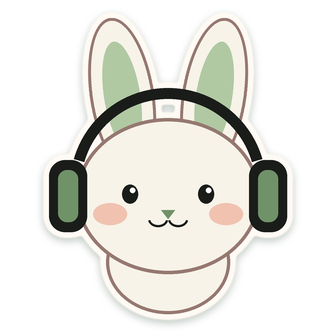
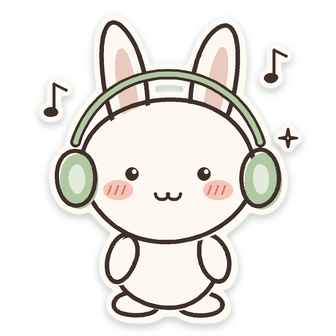
Right panel fits exactly one screen; redraw bear and bunny as hand-drawn doodles
Panel: the right context panel is now h-dvh + sticky and lays itself out
to fit — the Spotify art flexes into the leftover height (size container +
min(cqw,cqh) keeps it square), the optional About-the-artist copy drops out
below 940px tall, and a no-scrollbar overflow fallback only matters under
~520px. Measured with zero overflow at 1920x1080 down to 1280x560, panel
open or collapsed.

Stickers: bear and bunny redrawn in a Pinterest/Xiaohongshu doodle style —
wobbly dark-brown marker outlines, flat pastel fills offset like a
misprint, dot eyes, blush cheeks with hatch marks, tiny sparkle/heart/note
doodles — still in the site's sage/cream palette.

Changed region(s): [[0.119, 0.0298, 0.8929, 0.9821], [0.119, 0.2381, 0.2083, 0.3869], [0.7738, 0.1488, 0.8631, 0.2976]]

diff --git a/src/components/layout/RightNowPlayingPanel.tsx b/src/components/layout/RightNowPlayingPanel.tsx
@@ -23,15 +23,20 @@ type Props = {
 
 export function RightNowPlayingPanel({ song }: Props) {
   return (
-    <aside aria-label="Now playing context" className="flex flex-col h-full">
-      {/* Sticky header — stays put while panel body scrolls */}
-      <div className="sticky top-0 z-10 bg-card/95 backdrop-blur-sm flex items-center justify-between px-4 pt-4 pb-3 border-b border-border/40 shrink-0">
+    <aside aria-label="Now playing context" className="flex h-full min-h-0 flex-col">
+      {/* Header */}
+      <div className="z-10 bg-card/95 backdrop-blur-sm flex items-center justify-between px-4 pt-4 pb-3 border-b border-border/40 shrink-0">
         <p className="text-xs font-semibold uppercase tracking-wider text-muted-foreground">Now Playing — Spotify</p>
         <ThemeToggle />
       </div>
 
-      {/* Scrollable body */}
-      <div className="p-4 space-y-6">
+      {/* The panel is exactly one screen tall (SpotifyShell: h-dvh), so the
+          body is a flex column that fits it: the Spotify art flexes to fill
+          what's left, and the optional About-the-artist copy drops out on
+          short screens (max-height query below). overflow-y-auto +
+          scrollbar-hide is only a safety net for extremely short windows —
+          no visible scrollbar, but nothing becomes unreachable. */}
+      <div className="flex min-h-0 flex-1 flex-col gap-4 overflow-y-auto overflow-x-hidden p-4 scrollbar-hide">
         {/* Section-context companion — isolated so a bug here can never
             take down the real Spotify widget below it. */}
         <ErrorBoundary>
@@ -40,19 +45,21 @@ export function RightNowPlayingPanel({ song }: Props) {
 
         <Separator />
 
-        {/* Expanded Now Playing widget */}
-        <NowPlaying song={song} variant="expanded" />
+        {/* Expanded Now Playing widget — flexes to fill the leftover height */}
+        <div className="flex min-h-0 flex-1 flex-col">
+          <NowPlaying song={song} variant="expanded" />
+        </div>
 
         <Separator />
 
         {/* About the Artist */}
-        <div className="space-y-4">
+        <div className="flex shrink-0 flex-col gap-3">
           <p className="text-xs font-semibold uppercase tracking-wider text-muted-foreground">About the artist</p>
 
           <div className="relative">
           <Tape variant="beige" width={84} rotate={5} className="-top-3 right-8" />
           <Sticker name="sparkle" size={22} className="-left-2 -top-3" float />
-          <div className="relative w-full aspect-video rounded-3xl overflow-hidden border-2 border-primary/30 shadow-md">
+          <div className="relative aspect-[16/8] w-full rounded-3xl overflow-hidden border-2 border-primary/30 shadow-md">
             <Image
               src={site.avatar.src}
               alt={site.avatar.alt}
@@ -71,6 +78,9 @@ export function RightNowPlayingPanel({ song }: Props) {
           </div>
           </div>
 
+          {/* Secondary copy: hidden on screens shorter than 940px so the panel
+              always fits without scrolling. The name, photo, and links stay. */}
+          <div className="flex flex-col gap-3 [@media(max-height:940px)]:hidden">
           <p className="text-sm text-muted-foreground leading-relaxed">
             {site.bioShort}
           </p>
@@ -85,12 +95,13 @@ export function RightNowPlayingPanel({ song }: Props) {
           <div className="flex flex-wrap gap-1.5">
             <span className="text-xs text-muted-foreground">{education.affiliations.map((a) => a.split(' — ')[0]).join(' · ')}</span>
           </div>
+          </div>
         </div>
 
         <Separator />
 
         {/* Social links */}
-        <div className="flex gap-2 pb-4">
+        <div className="flex shrink-0 gap-2">
           <Button asChild variant="outline" size="sm" className="flex-1 rounded-full hover:border-primary hover:text-primary transition-colors">
             <a href={githubHref} target="_blank" rel="noopener noreferrer" aria-label="GitHub">
               <Github className="h-4 w-4" />

diff --git a/src/components/layout/SpotifyShell.tsx b/src/components/layout/SpotifyShell.tsx
@@ -60,7 +60,7 @@ export function SpotifyShell({ leftPanel, rightPanel, children }: Props) {
           // deliberately positioned outside this box on the left; clipping
           // this element would cut the button off. The content div further
           // down carries its own overflow-hidden instead.)
-          'hidden xl:flex min-w-0 shrink-0 self-start sticky top-0 paper-texture bg-card/80 backdrop-blur-xl transition-all duration-300 ease-in-out',
+          'hidden xl:flex h-dvh min-w-0 shrink-0 self-start sticky top-0 paper-texture bg-card/80 backdrop-blur-xl transition-all duration-300 ease-in-out',
           rightOpen ? 'w-panel border-l-2 border-dashed border-primary/25' : 'w-0'
         )}
       >
@@ -89,21 +89,17 @@ export function SpotifyShell({ leftPanel, rightPanel, children }: Props) {
           </button>
         </MagneticWrap>
 
-        {/* Panel content — no independent scroll zone anymore. It used to
-            be clipped to h-dvh with its own overflow-y-auto, which read
-            as an awkward second scrollbar nested inside the page's main
-            scroll. Now the panel is unconstrained (self-start so it
-            doesn't stretch to match <main>'s height) and just sticky —
-            its top stays pinned to the viewport for as long as there's
-            page left to scroll, and only in the last stretch of the
-            page does it un-stick and scroll normally to reveal whatever
-            didn't fit above the fold. One scroll gesture, not two. */}
+        {/* Panel content — exactly one screen tall (the wrapper above is
+            h-dvh + sticky), and the panel's own layout fits that height by
+            flexing the Spotify art and dropping secondary copy on short
+            screens (see RightNowPlayingPanel). So there is no scroll zone to
+            speak of — the whole panel just stays put while the page scrolls. */}
         {/* overflow-hidden here (not on the outer wrapper) is what actually
             stops the collapsed-but-still-`invisible` content from bleeding
             past the parent's zero width — its buttons/badges don't shrink
             on their own and would otherwise widen the document and leave a
             dead scrollable strip where the panel should have disappeared. */}
-        <div className={cn('flex flex-col w-full overflow-hidden', !rightOpen && 'invisible pointer-events-none')}>
+        <div className={cn('flex h-full min-h-0 w-full flex-col overflow-hidden', !rightOpen && 'invisible pointer-events-none')}>
           {rightPanel}
         </div>
       </div>

diff --git a/src/components/NowPlaying.tsx b/src/components/NowPlaying.tsx
@@ -64,10 +64,15 @@ export function NowPlaying({ song, variant = 'compact' }: Props) {
         href={song?.songUrl || 'https://open.spotify.com'}
         target="_blank"
         rel="noopener noreferrer"
-        className="block"
+        className="flex min-h-0 flex-1 flex-col"
       >
-        <div className="space-y-3 hover:opacity-90 transition-opacity">
-          <div className="relative w-full aspect-square">
+        <div className="flex min-h-0 flex-1 flex-col gap-3 hover:opacity-90 transition-opacity">
+          {/* The art takes whatever height the panel has left (the panel is
+              exactly one screen tall — no scrolling). Size-container + min()
+              keeps it a true square at any height: as wide as the column
+              allows, but never taller than the space available. */}
+          <div className="max-h-[16.75rem] min-h-[6rem] flex-1 [container-type:size]">
+          <div className="relative mx-auto aspect-square w-[min(100cqw,100cqh)]">
             <Tape variant="gingham" width={96} rotate={-6} className="-top-3 left-6" />
             <div className="relative h-full w-full overflow-hidden rounded-3xl border-2 border-primary/30 bg-muted shadow-lg">
             {song?.albumImageUrl ? (
@@ -95,8 +100,9 @@ export function NowPlaying({ song, variant = 'compact' }: Props) {
             </div>
             </div>
           </div>
+          </div>
 
-          <div className="space-y-1">
+          <div className="shrink-0 space-y-1">
             <div className="flex items-center gap-2">
               {song?.isPlaying && (
                 <span className="relative flex h-2 w-2 shrink-0">
@@ -114,7 +120,9 @@ export function NowPlaying({ song, variant = 'compact' }: Props) {
           </div>
 
           {song?.isPlaying && song.progressMs !== undefined && song.durationMs !== undefined && (
-            <LiveProgressBar progressMs={song.progressMs} durationMs={song.durationMs} />
+            <div className="shrink-0">
+              <LiveProgressBar progressMs={song.progressMs} durationMs={song.durationMs} />
+            </div>
           )}
         </div>
       </a>

diff --git a/src/app/page.tsx b/src/app/page.tsx
@@ -114,7 +114,7 @@ export default async function Home({ searchParams }: PageProps) {
                         />
                         <HeroRecord artwork={site.heroArtwork} />
                       </div>
-                      <Sticker name="teddy" size={104} rotate={-8} className="-bottom-7 -left-6" />
+                      <Sticker name="teddy" size={128} rotate={-6} className="-bottom-9 -left-8" />
                       <Sticker name="heart" size={54} rotate={12} className="-top-4 right-0 sm:-right-5" float />
                     </div>
 
@@ -136,7 +136,7 @@ export default async function Home({ searchParams }: PageProps) {
                   </div>
                 </div>
 
-                <Sticker name="bunny" size={118} rotate={6} className="-bottom-12 right-4 hidden sm:block" />
+                <Sticker name="bunny" size={140} rotate={5} className="-bottom-14 right-4 hidden sm:block" />
               </div>
             </AnimateIn>
           </div>

diff --git a/scripts/generate_stickers.py b/scripts/generate_stickers.py
@@ -284,72 +284,131 @@ def album_cloud():
     save(d.img, 'album-cloud.png', (480, 480))
 
 
+# ── doodle style (Pinterest / Xiaohongshu sticker look) ──────────────────────
+# Wobbly marker outline in a soft dark brown (never pure black), flat pastel
+# fills nudged a few px off the line like a risograph misprint, dot eyes,
+# blush cheeks with hatch marks. Shapes are hand-wobbled with low-frequency
+# noise, seeded so every run produces the identical drawing.
+LINE = (64, 48, 42)
+LINE_W = 4.6
+
+
+def blob(cx, cy, rx, ry, seed, jitter=0.03, n=110):
+    rnd = random.Random(seed)
+    phases = [rnd.uniform(0, math.tau) for _ in range(3)]
+    amps = [jitter, jitter * 0.6, jitter * 0.4]
+    pts = []
+    for i in range(n):
+        t = math.tau * i / n
+        k = 1 + sum(a * math.sin((m + 2) * t + p) for m, (a, p) in enumerate(zip(amps, phases)))
+        pts.append((cx + math.cos(t) * rx * k, cy + math.sin(t) * ry * k))
+    return pts
+
+
+def rot(pts, deg, cx, cy):
+    c, s_ = math.cos(math.radians(deg)), math.sin(math.radians(deg))
+    return [(cx + (x - cx) * c - (y - cy) * s_, cy + (x - cx) * s_ + (y - cy) * c) for x, y in pts]
+
+
+def arc_pts(cx, cy, rx, ry, a0, a1, n=28):
+    return [(cx + rx * math.cos(math.radians(a0 + (a1 - a0) * k / (n - 1))),
+             cy + ry * math.sin(math.radians(a0 + (a1 - a0) * k / (n - 1)))) for k in range(n)]
+
+
+def stroke(d, pts, w=LINE_W, color=LINE):
+    d.line(pts, color, w)
+    for x, y in (pts[0], pts[-1]):  # round caps
+        d.ell(x, y, w / 2, fill=color)
+
+
+def doodle(d, pts, fill=None, w=LINE_W, off=3.2):
+    """Flat fill (offset, misprinted) + wobbly closed outline on top."""
+    if fill is not None:
+        d.poly([(x + off, y + off) for x, y in pts], fill=fill)
+    stroke(d, pts + [pts[0], pts[1]], w)
+
+
+def face(d, cx, cy, spread, cheek=(244, 168, 156), mouth_dy=20):
+    """Dot eyes with a highlight, tiny nose, 'w' mouth, hatch-mark cheeks."""
+    for sx in (-spread, spread):
+        d.ell(cx + sx, cy, 6.6, fill=LINE)
+        d.ell(cx + sx + 2.2, cy - 2.4, 2.2, fill=WHITE)
+    layer, ld = d.overlay()
+    for sx in (-spread - 14, spread + 14):
+        ld.ellipse([(cx + sx - 15) * S, (cy + 16 - 10) * S, (cx + sx + 15) * S, (cy + 16 + 10) * S], fill=cheek + (170,))
+    d.commit(layer)
+    for sx in (-spread - 14, spread + 14):
+        for k in (-7, 0, 7):  # three little hatch marks on each cheek
+            stroke(d, [(cx + sx + k, cy + 12), (cx + sx + k - 3, cy + 20)], 1.8, (214, 120, 112))
+    stroke(d, arc_pts(cx - 6, cy + mouth_dy, 6.5, 5.5, 0, 180), 3.2)
+    stroke(d, arc_pts(cx + 6, cy + mouth_dy, 6.5, 5.5, 0, 180), 3.2)
+
+
+def tiny_sparkle(d, cx, cy, r):
+    stroke(d, sparkle_points(cx, cy, r) + [sparkle_points(cx, cy, r)[0]], 2.4)
+
+
 def teddy():
     W = H = 300
     d = D(W, H)
-    o = BROWN_DK
-    # ears
-    for cx in (84, 216):
-        d.ell(cx, 78, 38, fill=BROWN, outline=o, width=3.2)
-        d.ell(cx, 80, 21, fill=(232, 176, 156), outline=None)
-    # body & limbs
-    d.ell(150, 240, 70, 58, fill=BROWN, outline=o, width=3.2)
-    d.ell(150, 250, 40, 34, fill=CREAM, outline=None)
-    for cx, ang in ((86, 1), (214, -1)):
-        d.ell(cx, 222, 22, 36, fill=BROWN, outline=o, width=3.2)
-    for cx in (110, 190):
-        d.ell(cx, 288, 28, 17, fill=BROWN, outline=o, width=3.2)
-        d.ell(cx, 290, 14, 8, fill=(236, 172, 160))
+    TAN, TAN_DK = (226, 178, 134), (240, 196, 168)
+    # ears first so the head covers their lower halves
+    for k, ex in enumerate((86, 214)):
+        doodle(d, blob(ex, 74, 34, 33, 10 + k), TAN)
+        d.poly([(x + 2, y + 3) for x, y in blob(ex, 77, 17, 16, 20 + k)], fill=(244, 188, 176))
+    # little body + feet
+    for k, fx in enumerate((108, 192)):
+        doodle(d, blob(fx, 282, 24, 14, 30 + k), TAN)
+    doodle(d, blob(150, 238, 60, 50, 40), TAN)
+    d.poly([(x + 3, y + 3) for x, y in blob(150, 248, 33, 29, 41)], fill=CREAM)
+    # arms hugging a sage heart
+    doodle(d, rot(blob(96, 228, 17, 28, 50), 18, 96, 228), TAN)
+    doodle(d, rot(blob(204, 228, 17, 28, 51), -18, 204, 228), TAN)
+    doodle(d, heart_points(150, 236, 56), HEART + (255,), w=4.2)
     # head
-    d.ell(150, 138, 90, 82, fill=BROWN, outline=o, width=3.4)
-    d.ell(150, 168, 38, 30, fill=CREAM, outline=o, width=2.4)
-    d.ell(150, 152, 11, 8, fill=INK)
-    d.line([(150, 160), (150, 170)], INK, 2.2)
-    d.arc(139, 170, 11, 8, 10, 170, INK, 2.2)
-    d.arc(161, 170, 11, 8, 10, 170, INK, 2.2)
-    for cx in (112, 188):
-        d.ell(cx, 128, 8, 9, fill=INK)
-        d.ell(cx + 2.5, 124.5, 2.8, fill=WHITE)
-    cheek, cd = d.overlay()
-    for cx in (92, 208):
-        cd.ellipse([(cx - 17) * S, (160 - 11) * S, (cx + 17) * S, (160 + 11) * S], fill=CHEEK)
-    d.commit(cheek)
-    # tiny bow on one ear
-    bow(d, 232, 52, 17, color=PINK, outline=DEEP)
+    doodle(d, blob(150, 134, 90, 76, 60, jitter=0.022), TAN)
+    doodle(d, blob(150, 160, 33, 24, 61), CREAM, w=3.8)
+    d.poly([(x + 1.5, y + 1.5) for x, y in blob(150, 148, 10, 7, 62)], fill=LINE)
+    face(d, 150, 130, 40, mouth_dy=37)
+    # stray doodle sparkles + a little heart
+    tiny_sparkle(d, 42, 58, 13)
+    tiny_sparkle(d, 262, 150, 9)
+    doodle(d, heart_points(262, 98, 22), (255, 255, 255, 255), w=3.4, off=0)
     save(stickerize(d.img, border=6, border_color=(255, 250, 244)), 'teddy.png')
 
 
 def bunny():
     W = H = 300
     d = D(W, H)
-    o = (150, 120, 112)
-    # ears (rotated layers so they can lean)
-    for cx, ang in ((104, 9), (196, -9)):
-        layer = Image.new('RGBA', (80 * S, 170 * S), (0, 0, 0, 0))
-        ld = ImageDraw.Draw(layer)
-        ld.ellipse([8 * S, 6 * S, 72 * S, 164 * S], fill=CREAM + (255,), outline=o, width=int(3.2 * S))
-        ld.ellipse([22 * S, 30 * S, 58 * S, 140 * S], fill=PINK + (255,))
-        d.paste_layer(layer, cx, 78, ang)
-    # head + body
-    d.ell(150, 244, 62, 52, fill=CREAM, outline=o, width=3.2)
-    d.ell(150, 178, 92, 78, fill=CREAM, outline=o, width=3.4)
-    # headphone band over the head
-    d.arc(150, 168, 98, 98, 196, 344, INK, 11)
-    # earcups
-    for cx in (50, 250):
-        d.rrect(cx - 19, 142, cx + 19, 214, 16, fill=INK)
-        d.rrect(cx - 10, 152, cx + 10, 204, 9, fill=ROSE)
-    # face
-    for cx in (112, 188):
-        d.ell(cx, 176, 8, 9.5, fill=INK)
-        d.ell(cx + 2.6, 172.4, 2.8, fill=WHITE)
-    d.poly([(143, 192), (157, 192), (150, 201)], fill=ROSE)
-    d.arc(140, 201, 10, 8, 10, 170, INK, 2.2)
-    d.arc(160, 201, 10, 8, 10, 170, INK, 2.2)
-    cheek, cd = d.overlay()
-    for cx in (92, 208):
-        cd.ellipse([(cx - 17) * S, (196 - 11) * S, (cx + 17) * S, (196 + 11) * S], fill=CHEEK)
-    d.commit(cheek)
+    FUR, INNER = (253, 249, 241), (232, 202, 190)
+    # tall ears, tipped slightly apart, drawn before the head
+    for k, (ex, ang) in enumerate(((112, -9), (190, 10))):
+        pts = rot(blob(ex, 66, 21, 62, 70 + k, jitter=0.025), ang, ex, 100)
+        doodle(d, pts, FUR)
+        inner = rot(blob(ex, 70, 9.5, 46, 80 + k), ang, ex, 100)
+        d.poly([(x + 2, y + 3) for x, y in inner], fill=INNER)
+    # body, feet, arms
+    for k, fx in enumerate((118, 182)):
+        doodle(d, blob(fx, 286, 22, 12, 90 + k), FUR)
+    doodle(d, blob(150, 246, 52, 44, 92), FUR)
+    doodle(d, rot(blob(104, 240, 14, 24, 93), 20, 104, 240), FUR)
+    doodle(d, rot(blob(196, 240, 14, 24, 94), -20, 196, 240), FUR)
+    # head
+    doodle(d, blob(150, 152, 88, 70, 95, jitter=0.02), FUR)
+    # headphones in sage: band over the head, cups at the sides
+    band = arc_pts(150, 150, 96, 94, 196, 344, n=40)
+    stroke(d, band, 10.5, LINE)
+    stroke(d, band, 5.2, (176, 201, 163))
+    for k, cx in enumerate((58, 242)):
+        doodle(d, blob(cx, 160, 19, 28, 100 + k, jitter=0.02), (176, 201, 163), w=4.2)
+        d.poly([(x + 1, y + 1) for x, y in blob(cx, 160, 8, 15, 102 + k)], fill=(226, 236, 218))
+    face(d, 150, 156, 36)
+    # little music-note doodles
+    for nx, ny in ((256, 58), (36, 92)):
+        stroke(d, [(nx, ny), (nx, ny - 26)], 3)
+        stroke(d, [(nx, ny - 26), (nx + 12, ny - 20)], 3)
+        d.poly([(x + 1, y + 1) for x, y in blob(nx - 4, ny + 1, 7, 5, int(nx))], fill=LINE)
+    tiny_sparkle(d, 270, 120, 9)
     save(stickerize(d.img, border=6, border_color=(255, 250, 244)), 'bunny-headphones.png')
 
 
